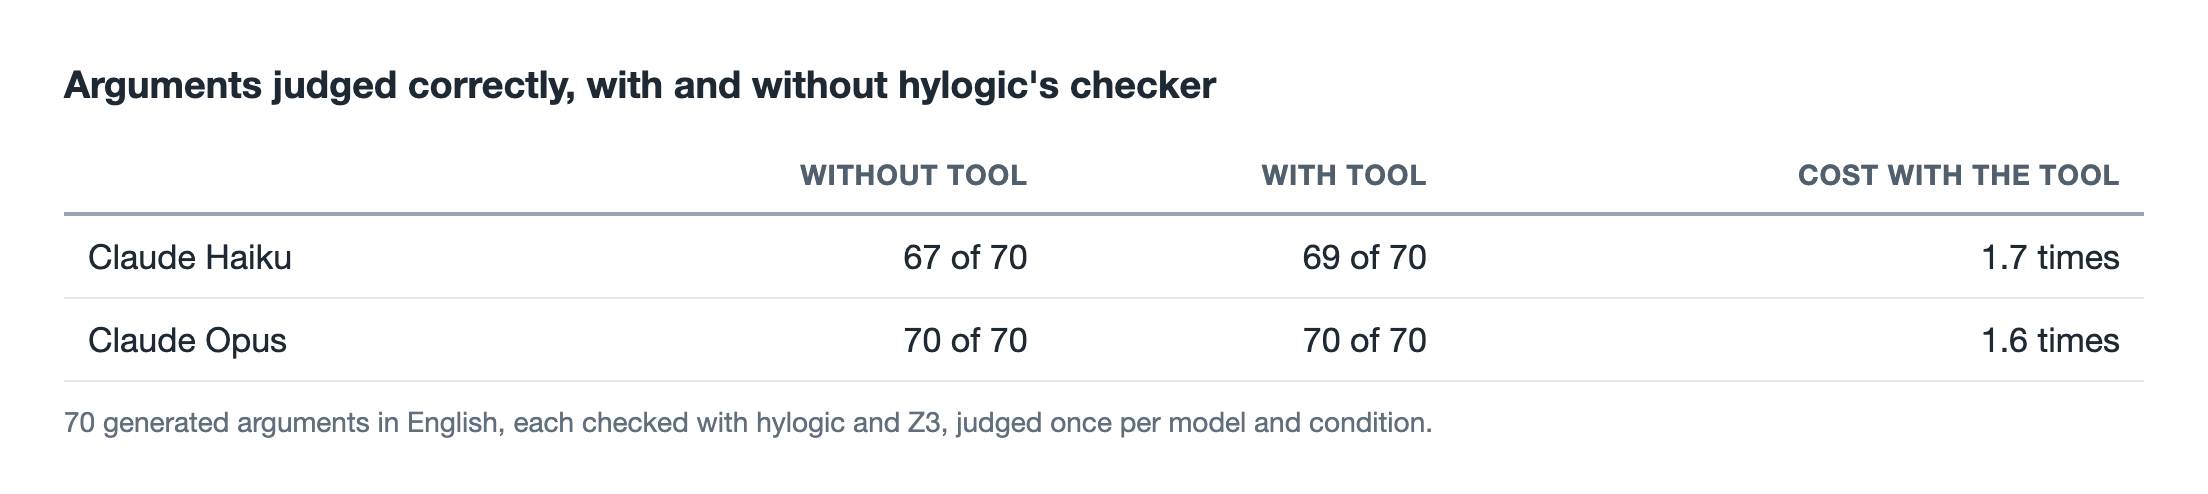
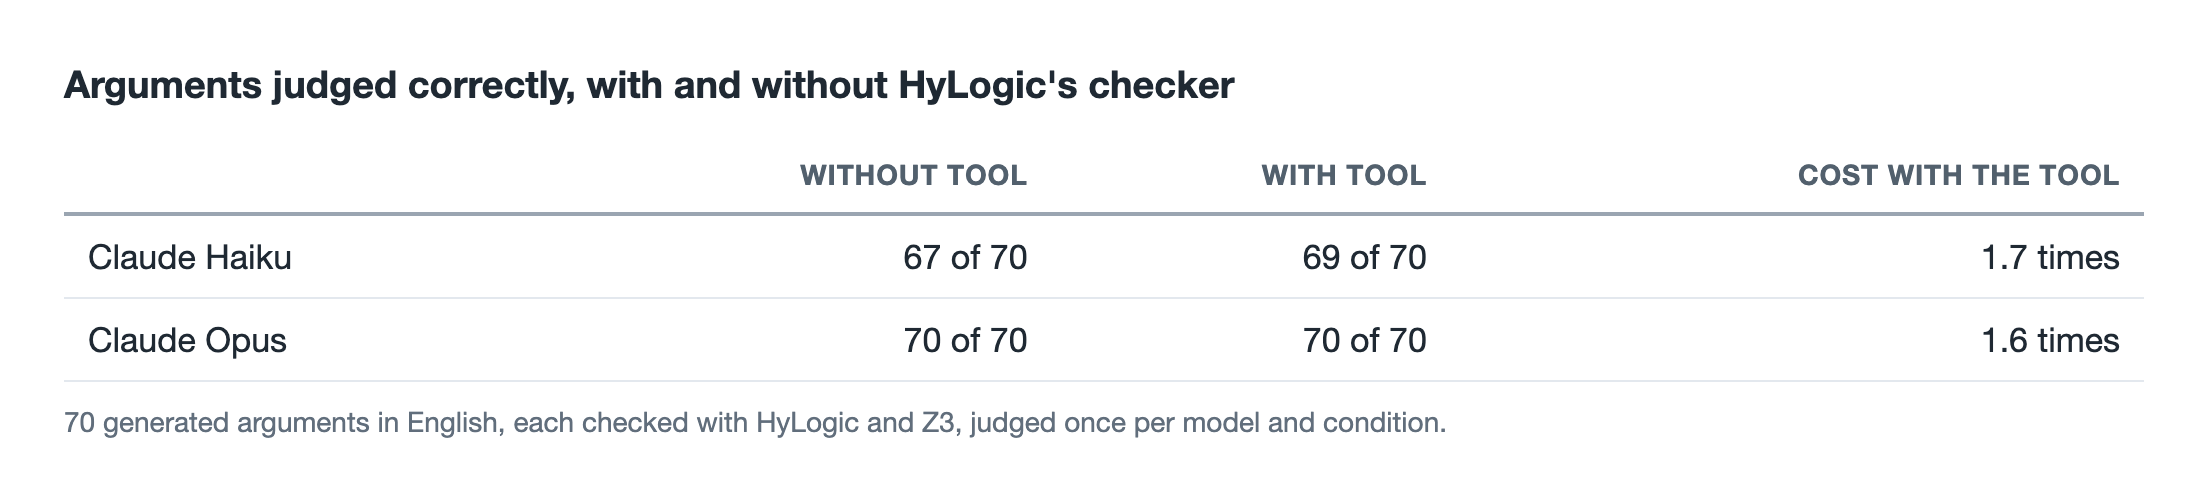
Article: HyLogic in prose, hylogic for the repository and package

Changed region(s): [[0.3438, 0.8198, 0.6562, 0.8806], [0.4062, 0.1215, 0.5625, 0.2126]]

diff --git a/doc/substack/make_table_images.py b/doc/substack/make_table_images.py
@@ -67,8 +67,8 @@ table("table2_tokens", "Tokens to describe a page's interactive elements to a mo
        ["JSON, compact", "78,730", "1.52"], ["JSON, indented", "99,246", "1.91"]],
       "1,661 elements from Wikipedia, Hacker News and GitHub's login page, counted with OpenAI's o200k tokenizer.",
       highlight=lambda row: row[0].startswith("HyML"))
-table("table3_checker", "Arguments judged correctly, with and without hylogic's checker",
+table("table3_checker", "Arguments judged correctly, with and without HyLogic's checker",
       ["", "Without tool", "With tool", "Cost with the tool"],
       [["Claude Haiku", "67 of 70", "69 of 70", "1.7 times"], ["Claude Opus", "70 of 70", "70 of 70", "1.6 times"]],
-      "70 generated arguments in English, each checked with hylogic and Z3, judged once per model and condition.")
+      "70 generated arguments in English, each checked with HyLogic and Z3, judged once per model and condition.")
 print(sorted(p.name for p in OUT.iterdir()))

diff --git a/doc/substack/lisp_next_to_agents_substack.md b/doc/substack/lisp_next_to_agents_substack.md
@@ -73,7 +73,7 @@ CaMeL shows the same pattern at a larger scale. Its safety is a checker too, an 
 
 ## Result 4. Where the parentheses pay off
 
-So where does a Lisp still fit? In the parts that programs read and write, rather than the parts models write. To test that, I wrote a small automated theorem prover in Hy, the classic Lisp exercise, and then made it part of hylogic.
+So where does a Lisp still fit? In the parts that programs read and write, rather than the parts models write. To test that, I wrote a small automated theorem prover in Hy, the classic Lisp exercise, and then made it part of HyLogic.
 
 Logic is a natural fit because formulas are trees. In Hy, a formula is simply quoted code, with the usual symbols.
 
@@ -105,7 +105,7 @@ Macros are the other place a Lisp earns its keep. A rewrite rule such as "the de
 
 The whole prover is about 400 lines. It proves the standard first test set for provers, Pelletier's problems 1 to 24, in milliseconds each, and problem 34, known as Andrews' challenge, in about five seconds after its clauses blow up to 1,296. The Z3 solver agreed on every problem, and on 300 random formulas the prover agrees with truth tables every time.
 
-hylogic 1.0 wraps this into a library with truth tables, models and arguments that are checked and explained.
+HyLogic 1.0 wraps this into a library with truth tables, models and arguments that are checked and explained.
 
 ```hy
 (defargument modus-tollens
@@ -130,17 +130,17 @@ An invalid argument gets a counterexample instead, such as "P = ⊥, Q = ⊤" fo
 
 ## Result 5. A logic checker added cost, not accuracy
 
-The last test turned the question around. If strict checking is what protects agents, perhaps agents also reason better with a checker at hand, in a domain where formulas are the natural notation. hylogic got an MCP tool, `check_argument`. The agent writes the premises and the conclusion as formulas, and the tool decides whether the argument is valid and returns a counterexample when it is not.
+The last test turned the question around. If strict checking is what protects agents, perhaps agents also reason better with a checker at hand, in a domain where formulas are the natural notation. HyLogic got an MCP tool, `check_argument`. The agent writes the premises and the conclusion as formulas, and the tool decides whether the argument is valid and returns a counterexample when it is not.
 
-To measure it, I generated 70 arguments in everyday English, each checked by both hylogic and Z3. A valid argument needs every one of its premises. An invalid one is tempting, because its conclusion holds in most of the situations the premises allow. The wording includes "only if" and "unless", which people often get wrong, and eight syllogisms test belief bias, such as "All roses are flowers. Some flowers fade quickly. Therefore, some roses fade quickly", which sounds right and does not follow. Each argument went once to each model, with and without the tool.
+To measure it, I generated 70 arguments in everyday English, each checked by both HyLogic and Z3. A valid argument needs every one of its premises. An invalid one is tempting, because its conclusion holds in most of the situations the premises allow. The wording includes "only if" and "unless", which people often get wrong, and eight syllogisms test belief bias, such as "All roses are flowers. Some flowers fade quickly. Therefore, some roses fade quickly", which sounds right and does not follow. Each argument went once to each model, with and without the tool.
 
 ![](article_images/table3_checker.png)
 
-*70 generated arguments, each judged once per model, with and without hylogic's checker.*
+*70 generated arguments, each judged once per model, with and without HyLogic's checker.*
 
 The models were far better than I expected. Haiku alone got 96 percent right, Opus everything, and neither fell for a single belief-bias syllogism. The tool raised Haiku by two arguments, which is within the variation between runs, and made every answer more expensive.
 
-The errors that remained tell more than the totals. Every argument Haiku got wrong, with or without the tool, contained a sentence of the form "Unless A, B". With the tool its formalizations show what went wrong. Haiku wrote that sentence as "not A or B", although the prompt said that "unless" means "or", and hylogic then confirmed the misread argument exactly as written. A checker can only check what it is given, and at this size the hard part was reading the English, not the reasoning.
+The errors that remained tell more than the totals. Every argument Haiku got wrong, with or without the tool, contained a sentence of the form "Unless A, B". With the tool its formalizations show what went wrong. Haiku wrote that sentence as "not A or B", although the prompt said that "unless" means "or", and HyLogic then confirmed the misread argument exactly as written. A checker can only check what it is given, and at this size the hard part was reading the English, not the reasoning.
 
 The field test also tested the tool. Twice Haiku sent a formula in a shape I had not planned for, once as a quoted string inside a string and once as a list with a single item, and the tool misread both. The call logs showed it, the fixes took a few lines, and the results above come from runs with the fixed tool. An agent is a tool's most demanding first user.
 
@@ -156,9 +156,9 @@ The field test also tested the tool. Twice Haiku sent a formula in a shape I had
 
 ## Limits, and trying it yourself
 
-The CaMeL test used one model, Claude Haiku, and one of AgentDojo's four suites. I stopped the attacked runs at 39 of 144 task pairs to limit model calls, and those 39 came from the tasks that finished first, so they are not a random sample. A stronger model may close part of the gap. The token counts use OpenAI's tokenizers, because Claude's is not available offline, and pages change over time. The logic field test gave each argument once to each model, and its arguments are generated, short and propositional apart from the syllogisms, so a checker may still pay off on longer first-order reasoning. The prover is a study tool. Real provers such as Vampire and E handle millions of clauses with indexing and equality reasoning that hylogic does not have, and for serious mathematics [Lean](https://lean-lang.org) is where the work happens.
+The CaMeL test used one model, Claude Haiku, and one of AgentDojo's four suites. I stopped the attacked runs at 39 of 144 task pairs to limit model calls, and those 39 came from the tasks that finished first, so they are not a random sample. A stronger model may close part of the gap. The token counts use OpenAI's tokenizers, because Claude's is not available offline, and pages change over time. The logic field test gave each argument once to each model, and its arguments are generated, short and propositional apart from the syllogisms, so a checker may still pay off on longer first-order reasoning. The prover is a study tool. Real provers such as Vampire and E handle millions of clauses with indexing and equality reasoning that HyLogic does not have, and for serious mathematics [Lean](https://lean-lang.org) is where the work happens.
 
-Everything is on GitHub. The CaMeL experiment, its hypotheses written before the runs, and the token measurement are in the [hyml repository](https://github.com/markomanninen/hyml/tree/camel-plan-language/experiments). The logic field test, its arguments and its hypotheses are in [hylogic's benchmarks](https://github.com/markomanninen/hylogic/tree/master/benchmarks), next to a comparison of truth tables, resolution, a SAT solver and Z3. hylogic installs with `pip install hylogic`, and `hy examples/tour.hy` walks through truth tables, arguments, rewriting and proofs, with a step-by-step guide to how the prover works.
+Everything is on GitHub. The CaMeL experiment, its hypotheses written before the runs, and the token measurement are in the [hyml repository](https://github.com/markomanninen/hyml/tree/camel-plan-language/experiments). The logic field test, its arguments and its hypotheses are in [hylogic's benchmarks](https://github.com/markomanninen/hylogic/tree/master/benchmarks), next to a comparison of truth tables, resolution, a SAT solver and Z3. HyLogic installs with `pip install hylogic`, and `hy examples/tour.hy` walks through truth tables, arguments, rewriting and proofs, with a step-by-step guide to how the prover works.
 
 GitHub: [hylogic](https://github.com/markomanninen/hylogic) · [hyml](https://github.com/markomanninen/hyml)
 

diff --git a/doc/substack/lisp_next_to_agents.md b/doc/substack/lisp_next_to_agents.md
@@ -79,7 +79,7 @@ CaMeL shows the same pattern at a larger scale. Its safety is a checker too, an 
 
 ## Result 4. Where the parentheses pay off
 
-So where does a Lisp still fit? In the parts that programs read and write, rather than the parts models write. To test that, I wrote a small automated theorem prover in Hy, the classic Lisp exercise, and then made it part of hylogic.
+So where does a Lisp still fit? In the parts that programs read and write, rather than the parts models write. To test that, I wrote a small automated theorem prover in Hy, the classic Lisp exercise, and then made it part of HyLogic.
 
 Logic is a natural fit because formulas are trees. In Hy, a formula is simply quoted code, with the usual symbols.
 
@@ -111,7 +111,7 @@ Macros are the other place a Lisp earns its keep. A rewrite rule such as "the de
 
 The whole prover is about 400 lines. It proves the standard first test set for provers, Pelletier's problems 1 to 24, in milliseconds each, and problem 34, known as Andrews' challenge, in about five seconds after its clauses blow up to 1,296. The Z3 solver agreed on every problem, and on 300 random formulas the prover agrees with truth tables every time.
 
-hylogic 1.0 wraps this into a library with truth tables, models and arguments that are checked and explained.
+HyLogic 1.0 wraps this into a library with truth tables, models and arguments that are checked and explained.
 
 ```hy
 (defargument modus-tollens
@@ -136,9 +136,9 @@ An invalid argument gets a counterexample instead, such as "P = ⊥, Q = ⊤" fo
 
 ## Result 5. A logic checker added cost, not accuracy
 
-The last test turned the question around. If strict checking is what protects agents, perhaps agents also reason better with a checker at hand, in a domain where formulas are the natural notation. hylogic got an MCP tool, `check_argument`. The agent writes the premises and the conclusion as formulas, and the tool decides whether the argument is valid and returns a counterexample when it is not.
+The last test turned the question around. If strict checking is what protects agents, perhaps agents also reason better with a checker at hand, in a domain where formulas are the natural notation. HyLogic got an MCP tool, `check_argument`. The agent writes the premises and the conclusion as formulas, and the tool decides whether the argument is valid and returns a counterexample when it is not.
 
-To measure it, I generated 70 arguments in everyday English, each checked by both hylogic and Z3. A valid argument needs every one of its premises. An invalid one is tempting, because its conclusion holds in most of the situations the premises allow. The wording includes "only if" and "unless", which people often get wrong, and eight syllogisms test belief bias, such as "All roses are flowers. Some flowers fade quickly. Therefore, some roses fade quickly", which sounds right and does not follow. Each argument went once to each model, with and without the tool.
+To measure it, I generated 70 arguments in everyday English, each checked by both HyLogic and Z3. A valid argument needs every one of its premises. An invalid one is tempting, because its conclusion holds in most of the situations the premises allow. The wording includes "only if" and "unless", which people often get wrong, and eight syllogisms test belief bias, such as "All roses are flowers. Some flowers fade quickly. Therefore, some roses fade quickly", which sounds right and does not follow. Each argument went once to each model, with and without the tool.
 
 | Arguments judged correctly | Without tool | With tool | Cost with the tool |
 |---|---:|---:|---:|
@@ -147,7 +147,7 @@ To measure it, I generated 70 arguments in everyday English, each checked by bot
 
 The models were far better than I expected. Haiku alone got 96 percent right, Opus everything, and neither fell for a single belief-bias syllogism. The tool raised Haiku by two arguments, which is within the variation between runs, and made every answer more expensive.
 
-The errors that remained tell more than the totals. Every argument Haiku got wrong, with or without the tool, contained a sentence of the form "Unless A, B". With the tool its formalizations show what went wrong. Haiku wrote that sentence as "not A or B", although the prompt said that "unless" means "or", and hylogic then confirmed the misread argument exactly as written. A checker can only check what it is given, and at this size the hard part was reading the English, not the reasoning.
+The errors that remained tell more than the totals. Every argument Haiku got wrong, with or without the tool, contained a sentence of the form "Unless A, B". With the tool its formalizations show what went wrong. Haiku wrote that sentence as "not A or B", although the prompt said that "unless" means "or", and HyLogic then confirmed the misread argument exactly as written. A checker can only check what it is given, and at this size the hard part was reading the English, not the reasoning.
 
 The field test also tested the tool. Twice Haiku sent a formula in a shape I had not planned for, once as a quoted string inside a string and once as a list with a single item, and the tool misread both. The call logs showed it, the fixes took a few lines, and the results above come from runs with the fixed tool. An agent is a tool's most demanding first user.
 
@@ -163,9 +163,9 @@ The field test also tested the tool. Twice Haiku sent a formula in a shape I had
 
 ## Limits, and trying it yourself
 
-The CaMeL test used one model, Claude Haiku, and one of AgentDojo's four suites. I stopped the attacked runs at 39 of 144 task pairs to limit model calls, and those 39 came from the tasks that finished first, so they are not a random sample. A stronger model may close part of the gap. The token counts use OpenAI's tokenizers, because Claude's is not available offline, and pages change over time. The logic field test gave each argument once to each model, and its arguments are generated, short and propositional apart from the syllogisms, so a checker may still pay off on longer first-order reasoning. The prover is a study tool. Real provers such as Vampire and E handle millions of clauses with indexing and equality reasoning that hylogic does not have, and for serious mathematics [Lean](https://lean-lang.org) is where the work happens.
+The CaMeL test used one model, Claude Haiku, and one of AgentDojo's four suites. I stopped the attacked runs at 39 of 144 task pairs to limit model calls, and those 39 came from the tasks that finished first, so they are not a random sample. A stronger model may close part of the gap. The token counts use OpenAI's tokenizers, because Claude's is not available offline, and pages change over time. The logic field test gave each argument once to each model, and its arguments are generated, short and propositional apart from the syllogisms, so a checker may still pay off on longer first-order reasoning. The prover is a study tool. Real provers such as Vampire and E handle millions of clauses with indexing and equality reasoning that HyLogic does not have, and for serious mathematics [Lean](https://lean-lang.org) is where the work happens.
 
-Everything is on GitHub. The CaMeL experiment, its hypotheses written before the runs, and the token measurement are in the [hyml repository](https://github.com/markomanninen/hyml/tree/camel-plan-language/experiments). The logic field test, its arguments and its hypotheses are in [hylogic's benchmarks](https://github.com/markomanninen/hylogic/tree/master/benchmarks), next to a comparison of truth tables, resolution, a SAT solver and Z3. hylogic installs with `pip install hylogic`, and `hy examples/tour.hy` walks through truth tables, arguments, rewriting and proofs, with a step-by-step guide to how the prover works.
+Everything is on GitHub. The CaMeL experiment, its hypotheses written before the runs, and the token measurement are in the [hyml repository](https://github.com/markomanninen/hyml/tree/camel-plan-language/experiments). The logic field test, its arguments and its hypotheses are in [hylogic's benchmarks](https://github.com/markomanninen/hylogic/tree/master/benchmarks), next to a comparison of truth tables, resolution, a SAT solver and Z3. HyLogic installs with `pip install hylogic`, and `hy examples/tour.hy` walks through truth tables, arguments, rewriting and proofs, with a step-by-step guide to how the prover works.
 
 GitHub: [hylogic](https://github.com/markomanninen/hylogic) · [hyml](https://github.com/markomanninen/hyml)
 

diff --git a/doc/substack/README.md b/doc/substack/README.md
@@ -1,7 +1,7 @@
 # Article: Where a Lisp still fits next to AI agents
 
 A Substack article on five measurements of where Hy, and Lisp notation in
-general, helps AI agents and where it does not, with hylogic as the
+general, helps AI agents and where it does not, with HyLogic as the
 positive case.
 
 | File | Contents |
